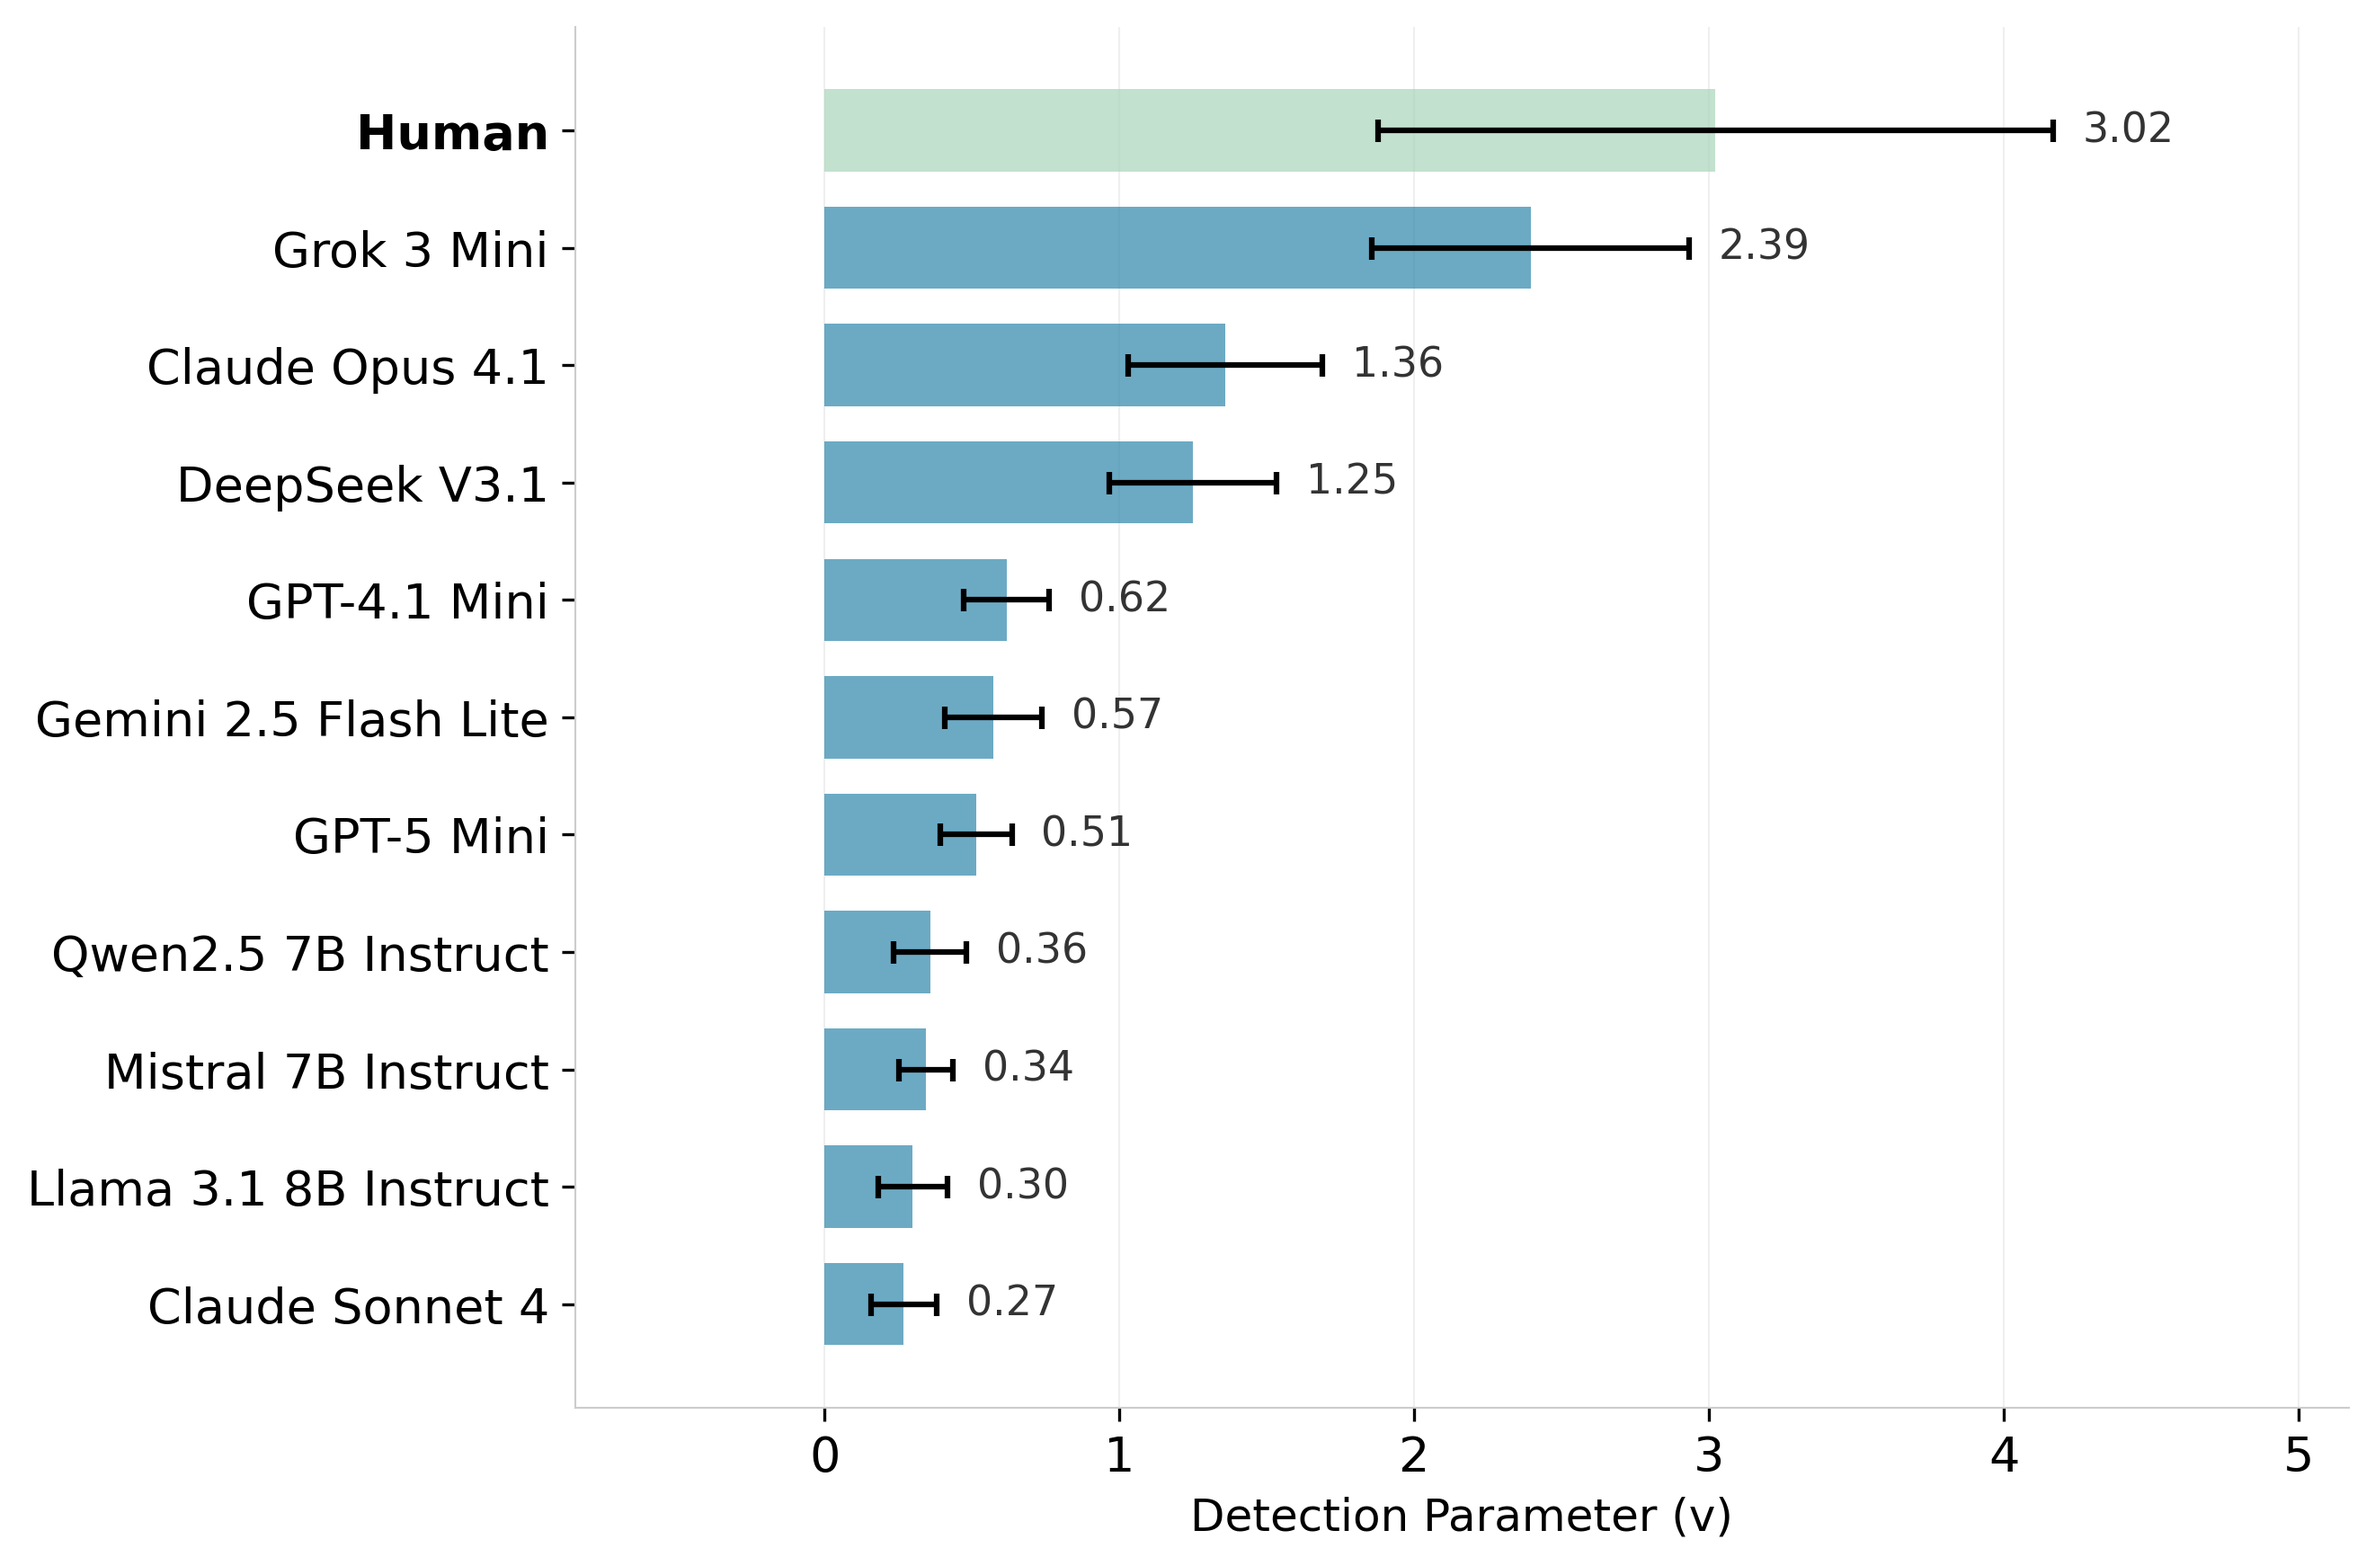
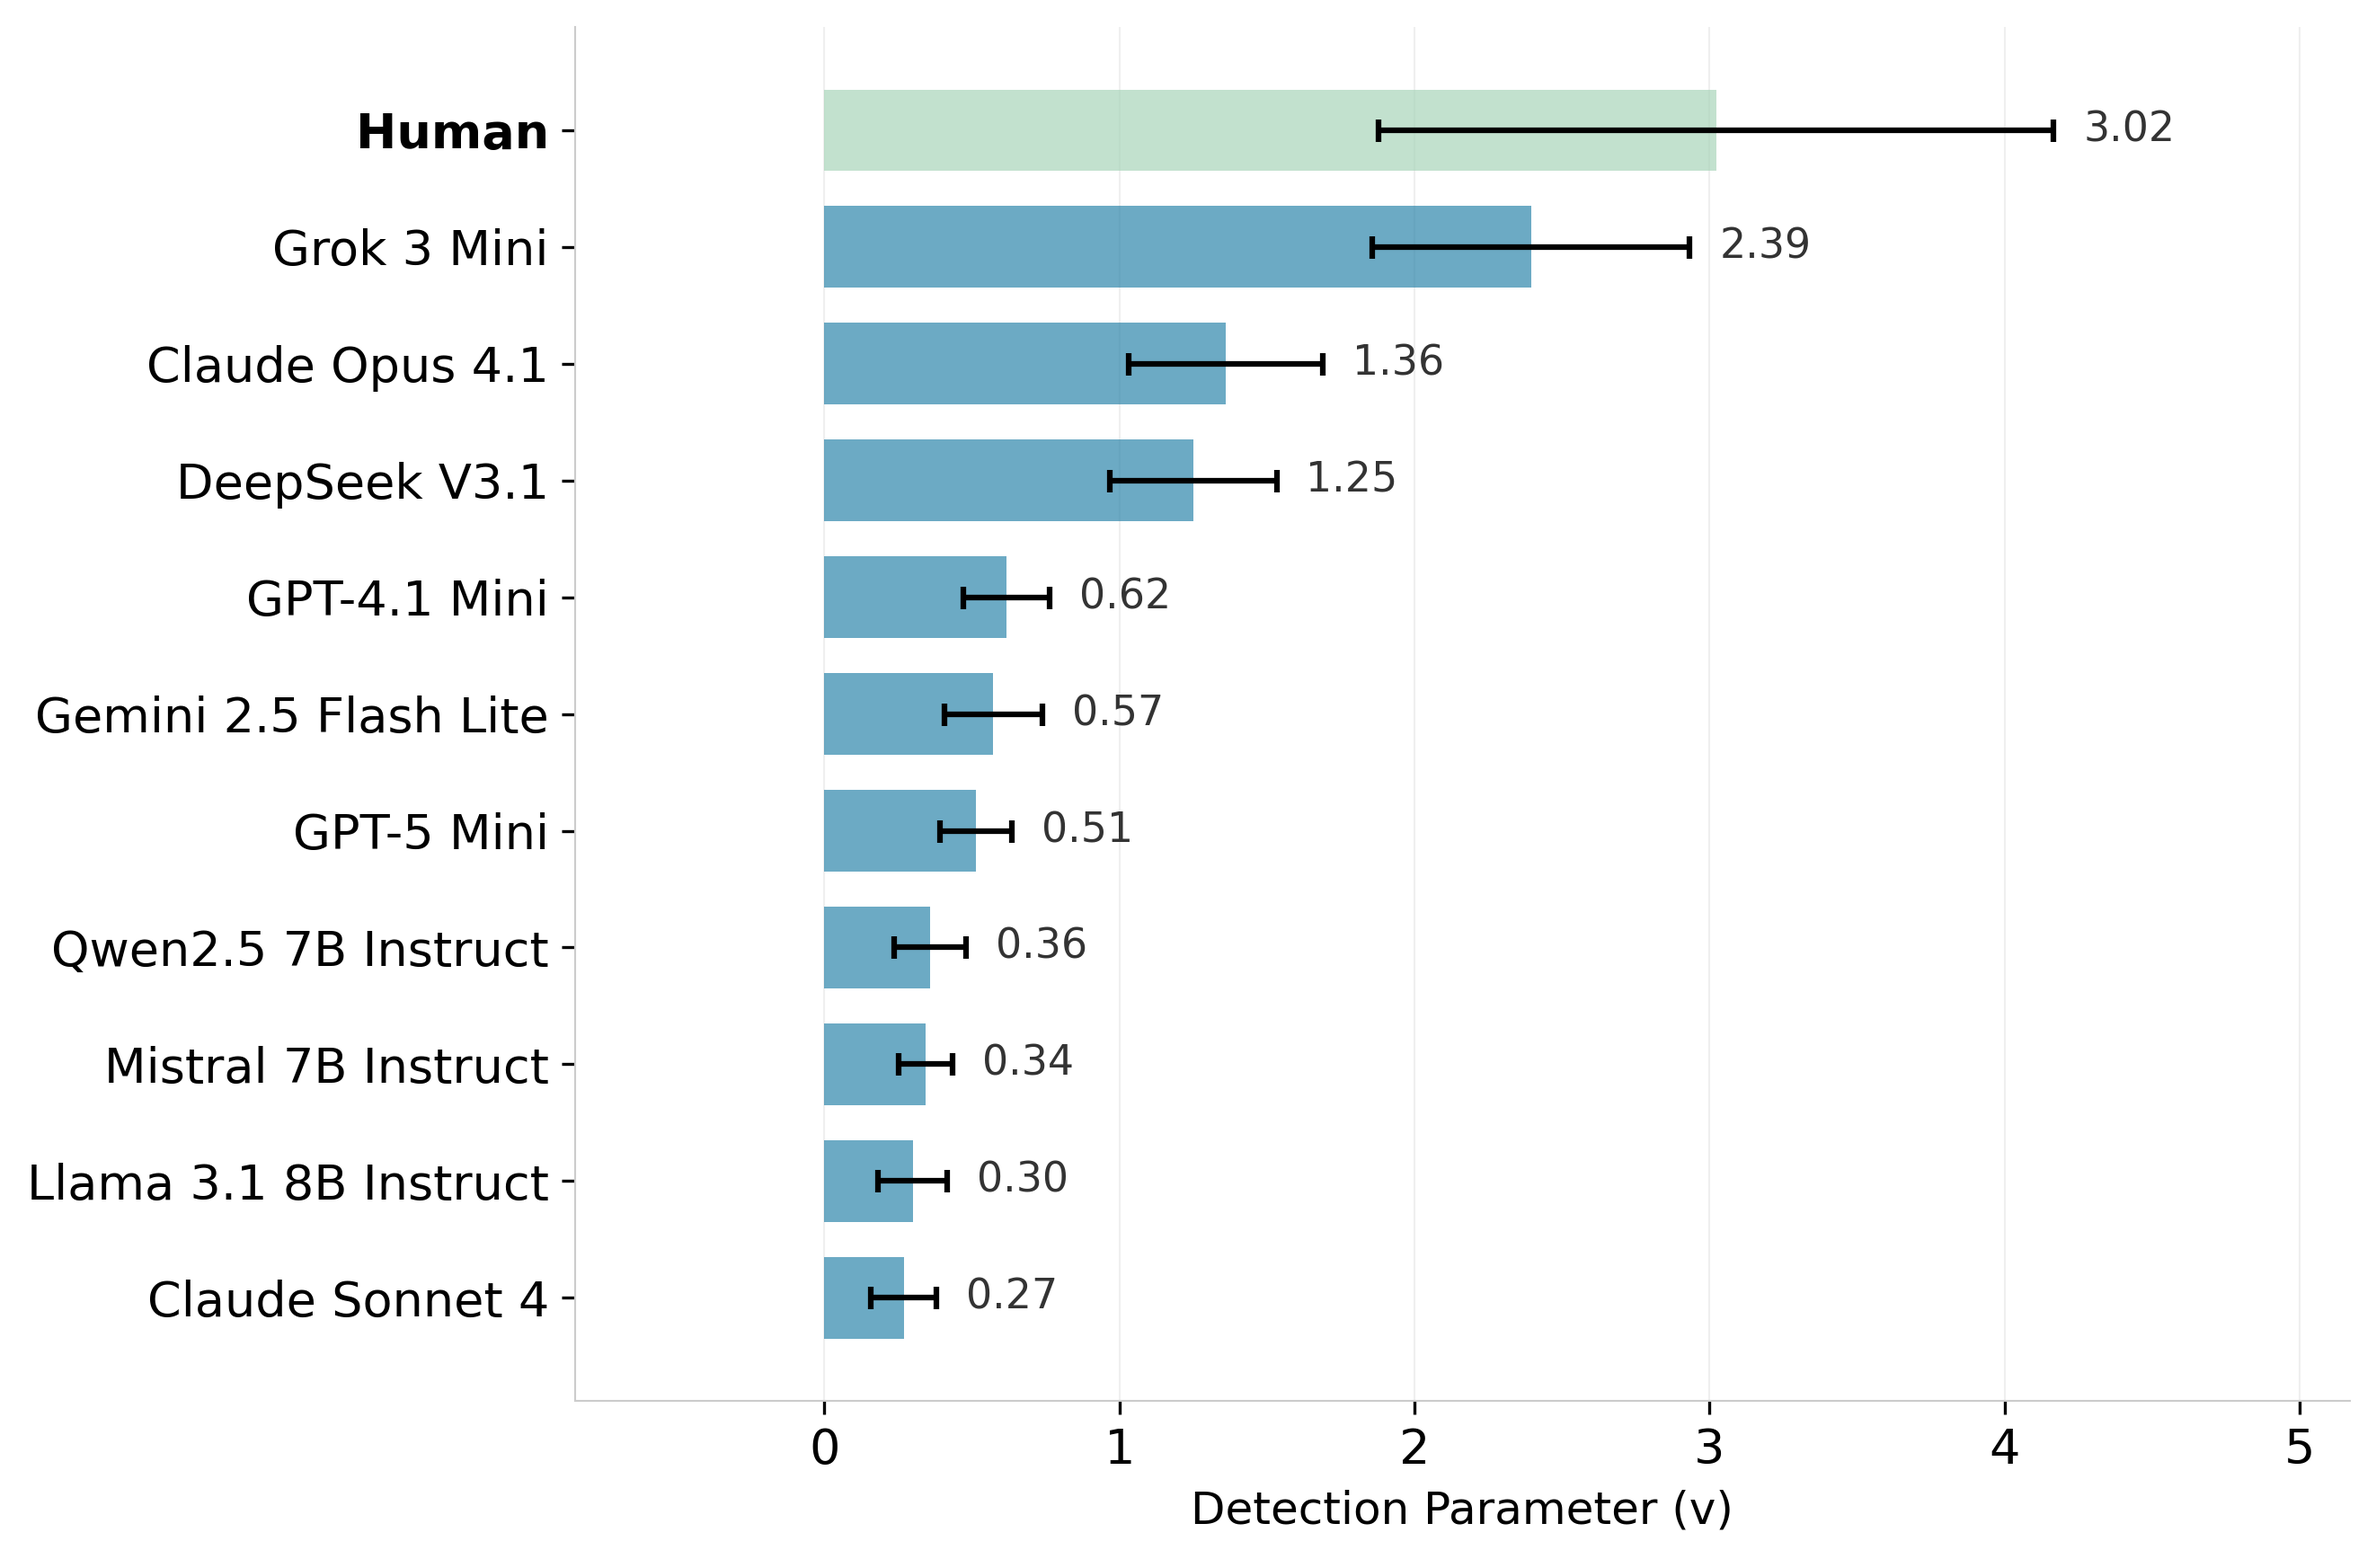
added shift symmetry and fixed E[m]=0

diff --git a/mini-mafia-benchmark/analysis/top_down_theoretical/scores_theoretical_with_humans.py b/mini-mafia-benchmark/analysis/top_down_theoretical/scores_theoretical_with_humans.py
@@ -432,14 +432,19 @@ def run_theoretical_model_pymc(data_df):
         max_rhat_c = float(rhat['c'].max())
         print(f"   Max R-hat: a={max_rhat_a:.4f}, b={max_rhat_b:.4f}, c={max_rhat_c:.4f}")
 
-    # Extract and rescale
+    # Extract posterior samples
     a_samples = trace.posterior['a'].values.reshape(-1, n_models)
     b_samples = trace.posterior['b'].values.reshape(-1, n_models)
     c_samples = trace.posterior['c'].values.reshape(-1, n_models)
 
-    # Rescale to mean(v) = 1
-    v_mean_raw = np.mean(c_samples, axis=0).mean()
-    scale_factor = v_mean_raw
+    # Remove additive gauge freedom by enforcing mean(m) = 0
+    mean_shift = a_samples.mean(axis=1, keepdims=True)
+    a_samples = a_samples - mean_shift
+    b_samples = b_samples - mean_shift
+
+    # Rescale so that mean(v) = 1
+    detect_mean_raw = np.mean(c_samples, axis=0)
+    scale_factor = np.mean(detect_mean_raw)
 
     m_samples = a_samples * scale_factor
     d_samples = b_samples * scale_factor

diff --git a/mini-mafia-benchmark/analysis/top_down_theoretical/scores_theoretical_model.py b/mini-mafia-benchmark/analysis/top_down_theoretical/scores_theoretical_model.py
@@ -207,6 +207,12 @@ def run_theoretical_model_pymc(data_df):
     b_samples = trace.posterior['b'].values.reshape(-1, n_models)
     c_samples = trace.posterior['c'].values.reshape(-1, n_models)
 
+    # Fix additive gauge freedom by forcing mean(m)=0 while preserving
+    # the gaps m_i - d_j.
+    mean_shift = a_samples.mean(axis=1, keepdims=True)
+    a_samples = a_samples - mean_shift
+    b_samples = b_samples - mean_shift
+
     # Compute statistics - keep raw values from the model
     # m_i: deceive capability (logit scale)
     # d_j: disclose capability (logit scale)
